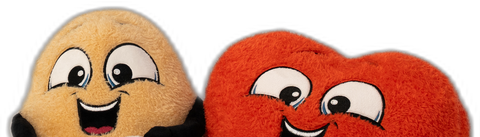
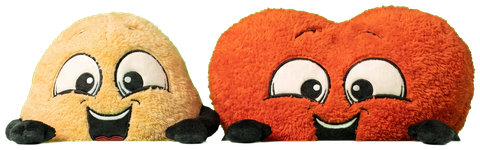
feat: Higgsfield-generated peek image with paws gripping the card edge; fix email markup that likely caused Gmail's collapse behavior
- New Benny & Vita image generated via Higgsfield (nano_banana_2) on a
  solid green-screen background per explicit request, then removed with
  a deterministic chroma-key (color-dominance based alpha, verified
  correct both numerically and via checkerboard composite before
  shipping) — not trusting the model's own claimed transparency again.
  Pose: peeking over an edge with paws resting/gripping on top, no
  pillow-sign props in frame.
- Replaced the <div>-inside-<Section> divider with a Section styled
  directly as the bar. A raw HTML element nested inside react-email's
  table-based Section can produce malformed markup that some mail
  clients misparse — this plus the earlier <hr> removal are the two
  concrete structural candidates for the Gmail 'show trimmed content'
  collapse. Also dropped unused position:relative declarations.
- Switched the divider's rgba() background to a solid hex color —
  rgba backgrounds are inconsistently supported in Outlook's Word
  rendering engine.
- Verified via automated browser test against the live site that the
  template reset button actually works: the stale saved subject was
  'Here is your access code!' (an old manual edit, not any code
  default) and clicking reset correctly restored the current warm
  welcome copy after reload.

diff --git a/src/lib/email/templates/accessCode.tsx b/src/lib/email/templates/accessCode.tsx
@@ -148,13 +148,14 @@ export function AccessCodeEmail({
             <Text style={quote} className="bmo-quote">“we don’t fix you. we’re just here for you.”</Text>
           </Section>
 
-          {/* Plain styled bar instead of a semantic <hr> — mail clients
-              (Gmail especially) use a bare <hr> as a strong signal for
-              'start of quoted/forwarded content' and will auto-collapse
-              everything around it behind a '...' toggle. */}
-          <Section style={dividerWrap}>
-            <div style={dividerBar} />
-          </Section>
+          {/* Plain colored Section instead of <hr> or a nested raw <div> —
+              both a bare <hr> tag and a raw HTML element nested inside
+              react-email's table-based <Section> are things mail clients
+              (Gmail especially) can misparse as 'start of quoted content'
+              and collapse behind a '...' toggle. A Section styled directly
+              as the bar renders as a single plain table cell, nothing to
+              misinterpret. */}
+          <Section style={dividerBar} />
 
           {/* Footer */}
           <Section>
@@ -227,7 +228,6 @@ const subtitle = {
 const peekWrap = {
   textAlign: 'center' as const,
   marginBottom: '-18px',
-  position: 'relative' as const,
 }
 
 const peekImg = {
@@ -242,7 +242,6 @@ const codeSection = {
   padding: '32px 16px',
   textAlign: 'center' as const,
   marginBottom: '32px',
-  position: 'relative' as const,
 }
 
 const codeLabel = {
@@ -317,14 +316,12 @@ const quote = {
   wordWrap: 'break-word' as const,
 }
 
-const dividerWrap = {
-  margin: '0 0 24px',
-}
-
 const dividerBar = {
   height: '1px',
   width: '100%',
-  backgroundColor: 'rgba(48, 48, 48, 0.12)',
+  backgroundColor: '#EDE7DB',
+  margin: '0 0 24px',
+  padding: 0,
 }
 
 const footerStyle = {